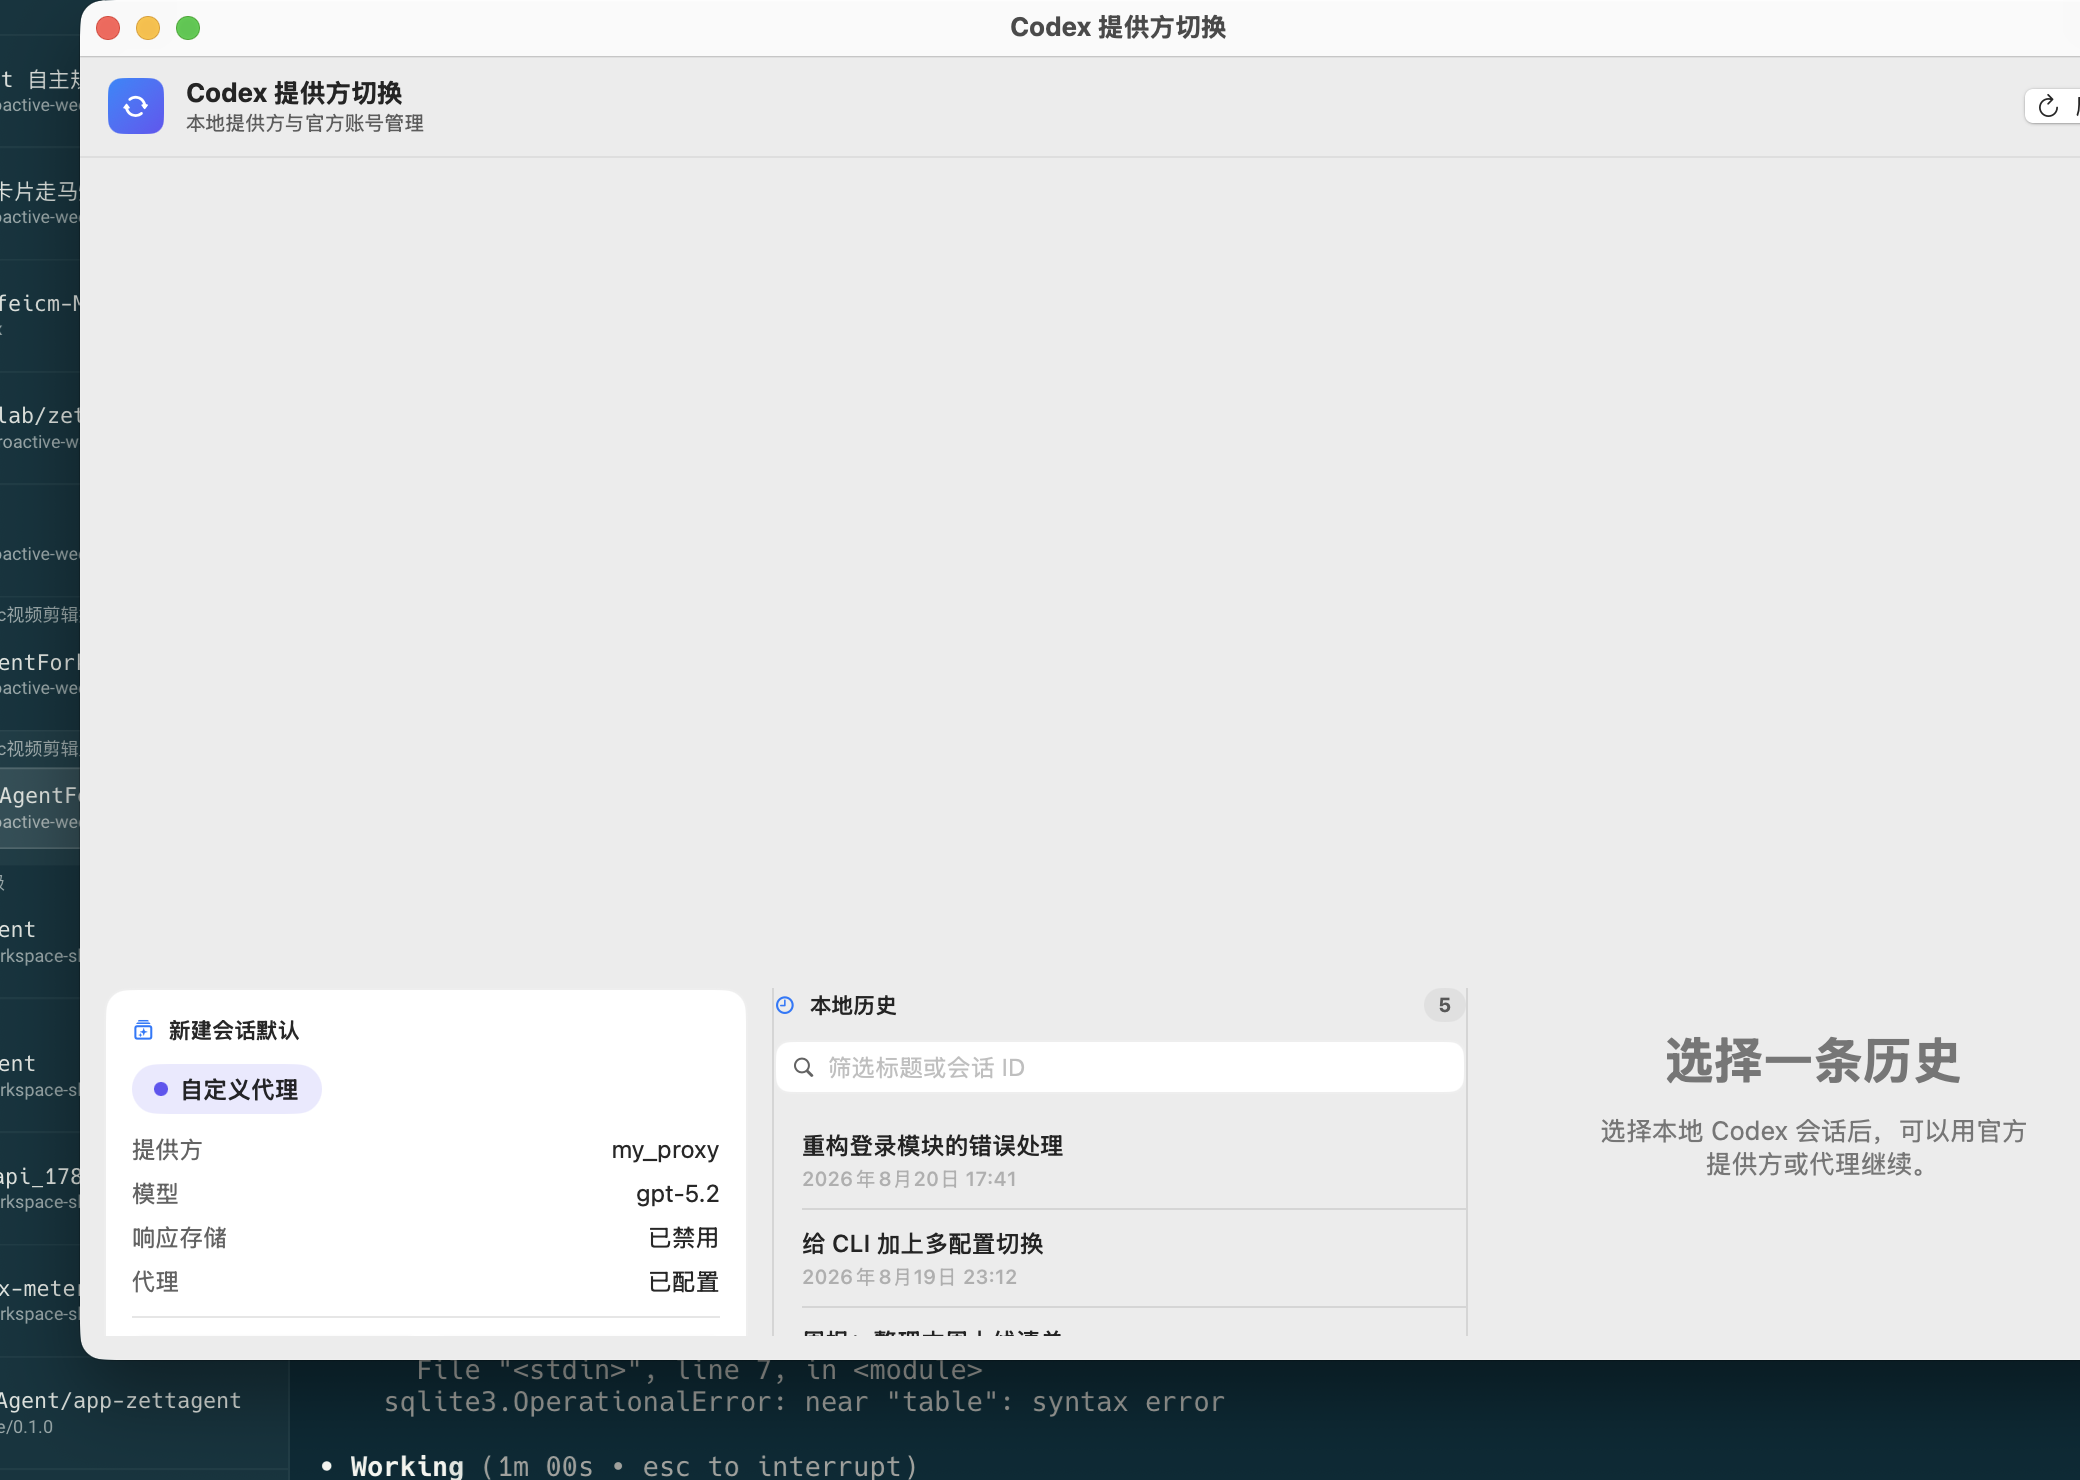
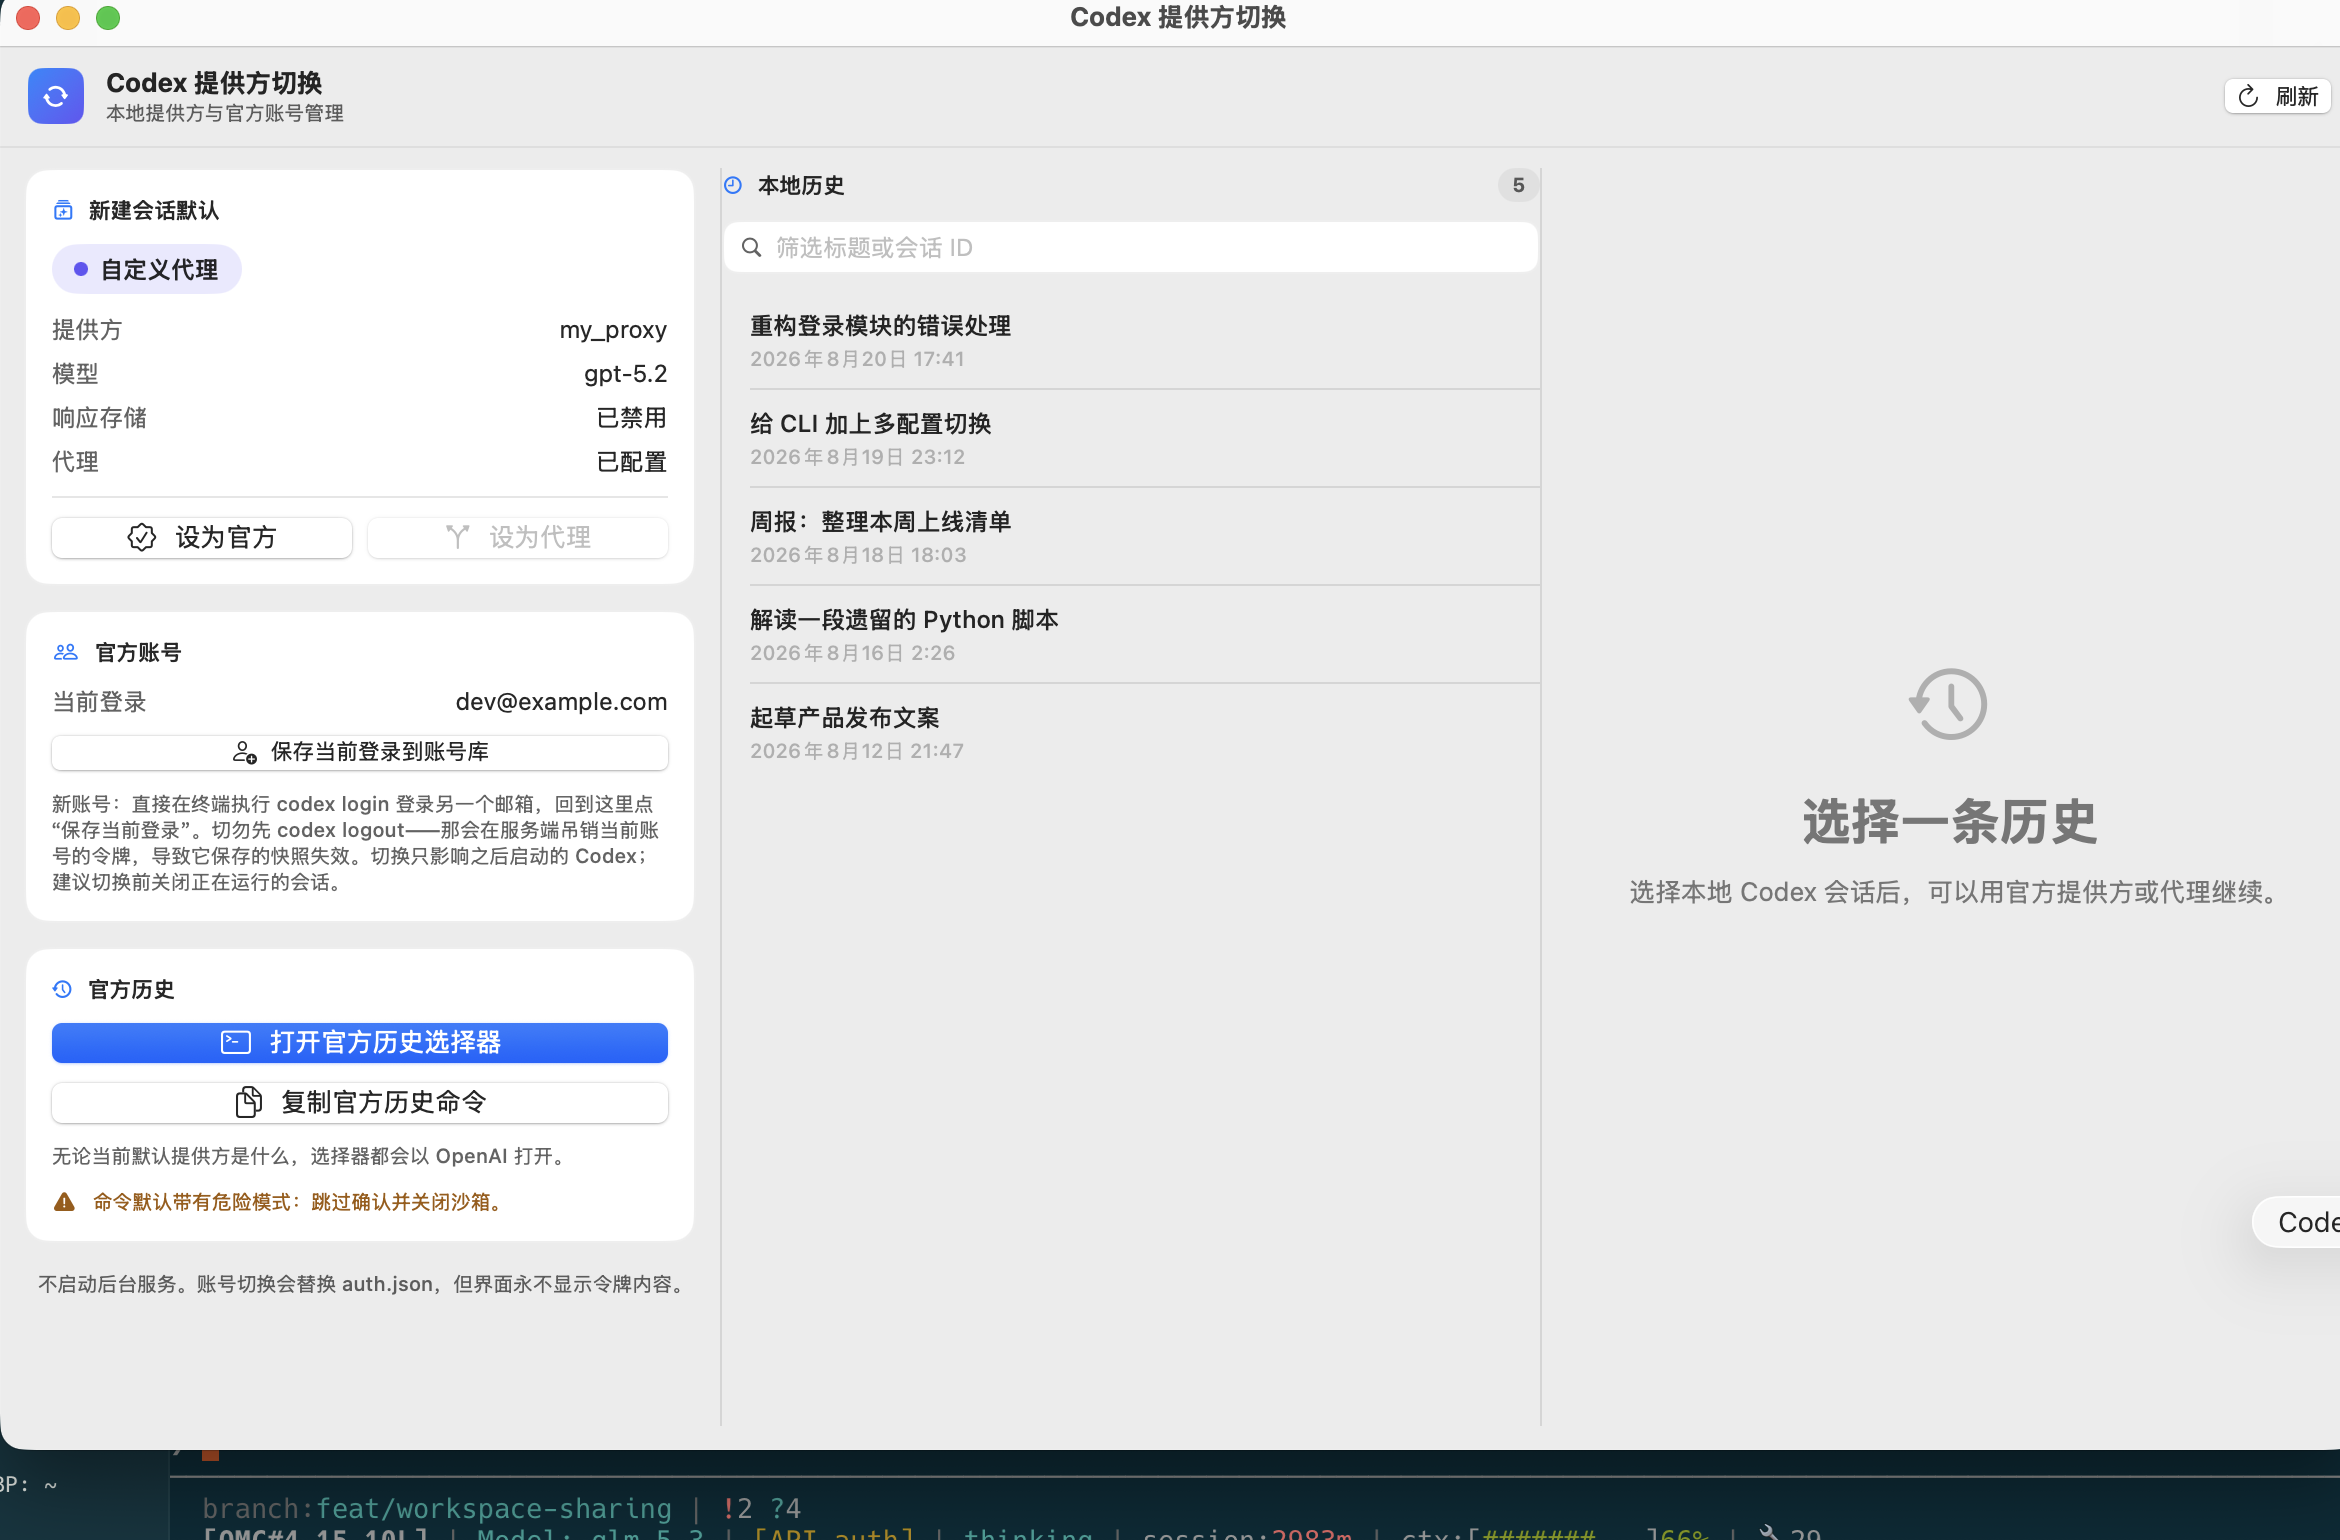
fix(ui): 用 HStack 替换 HSplitView 修复宽窗口布局崩坏
NSSplitView 在窗口尺寸变化时无视 SwiftUI 子视图的 min/ideal/max frame 约束:
边栏吸收全部新增宽度、右栏被挤没,并连带腐蚀内容布局(卡片内大间隙、
按钮/尾部内容渲染为零高度)。普通 HStack 严格尊重 frame 约束,多余宽度
全部让给中间历史列表,任意窗口尺寸下布局稳定。

- 三栏改为 HStack + Divider,侧栏保留 272-360 / 284-440 夹紧范围
- 动画修饰符保持在 ScrollView 外层(内容层在 resize 时不可靠)
- 以新版布局重新生成 README 演示截图(假数据,已脱敏)

diff --git a/Sources/CodexProviderSwitcher/CodexProviderSwitcherApp.swift b/Sources/CodexProviderSwitcher/CodexProviderSwitcherApp.swift
@@ -468,13 +468,19 @@ private struct ContentView: View {
         VStack(spacing: 0) {
             header
             Divider().opacity(0.6)
-            HSplitView {
+            // Plain HStack, not HSplitView: NSSplitView ignores SwiftUI
+            // min/ideal/max pane frames when the window resizes, which let
+            // the side panes explode and corrupted content layout. HStack
+            // keeps side panes clamped and gives extra width to the list.
+            HStack(spacing: 0) {
                 providerPane
-                    .frame(minWidth: 272, idealWidth: 312)
+                    .frame(minWidth: 272, idealWidth: 312, maxWidth: 360)
+                Divider()
                 historyPane
                     .frame(minWidth: 340, idealWidth: 430)
+                Divider()
                 detailPane
-                    .frame(minWidth: 284, idealWidth: 330)
+                    .frame(minWidth: 284, idealWidth: 330, maxWidth: 440)
             }
             .padding(.top, 10)
             .padding(.bottom, 12)
@@ -576,8 +582,10 @@ private struct ContentView: View {
                     .padding(.top, 2)
             }
             .padding(.horizontal, 12)
-            .animation(contentAnimation, value: model.message)
         }
+        // Keep animation modifiers OUTSIDE the ScrollView; applying them to
+        // its content is fragile when the pane resizes.
+        .animation(contentAnimation, value: model.message)
     }
 
     private var defaultProviderCard: some View {
@@ -644,7 +652,6 @@ private struct ContentView: View {
                             accountRow(account)
                         }
                     }
-                    .animation(contentAnimation, value: model.activeEmail)
                 }
 
                 Button {
